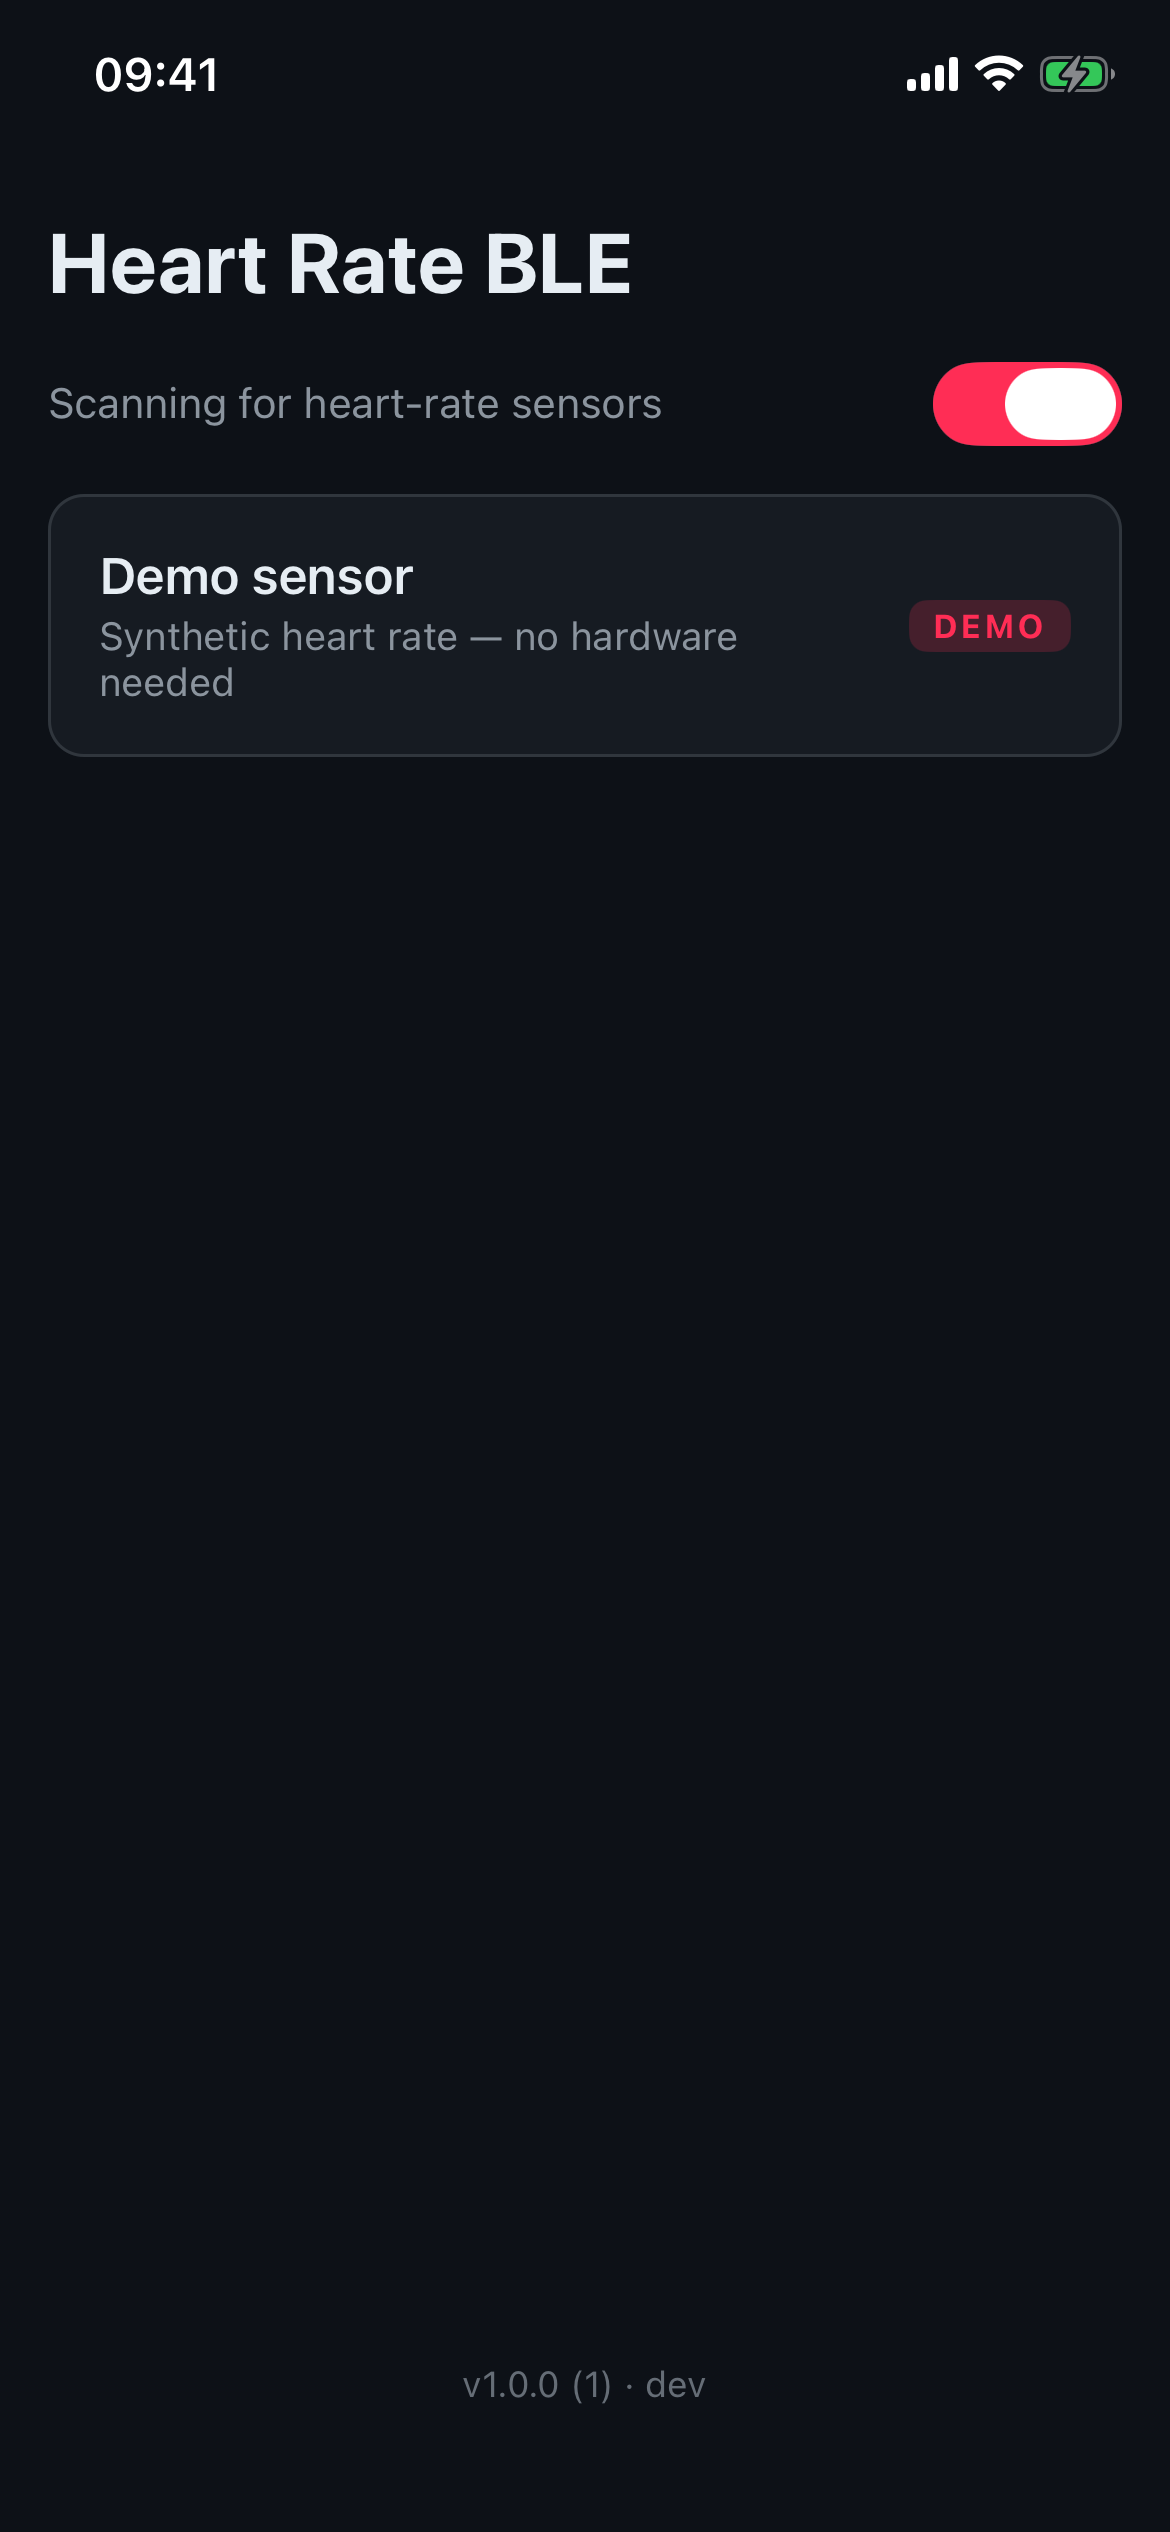
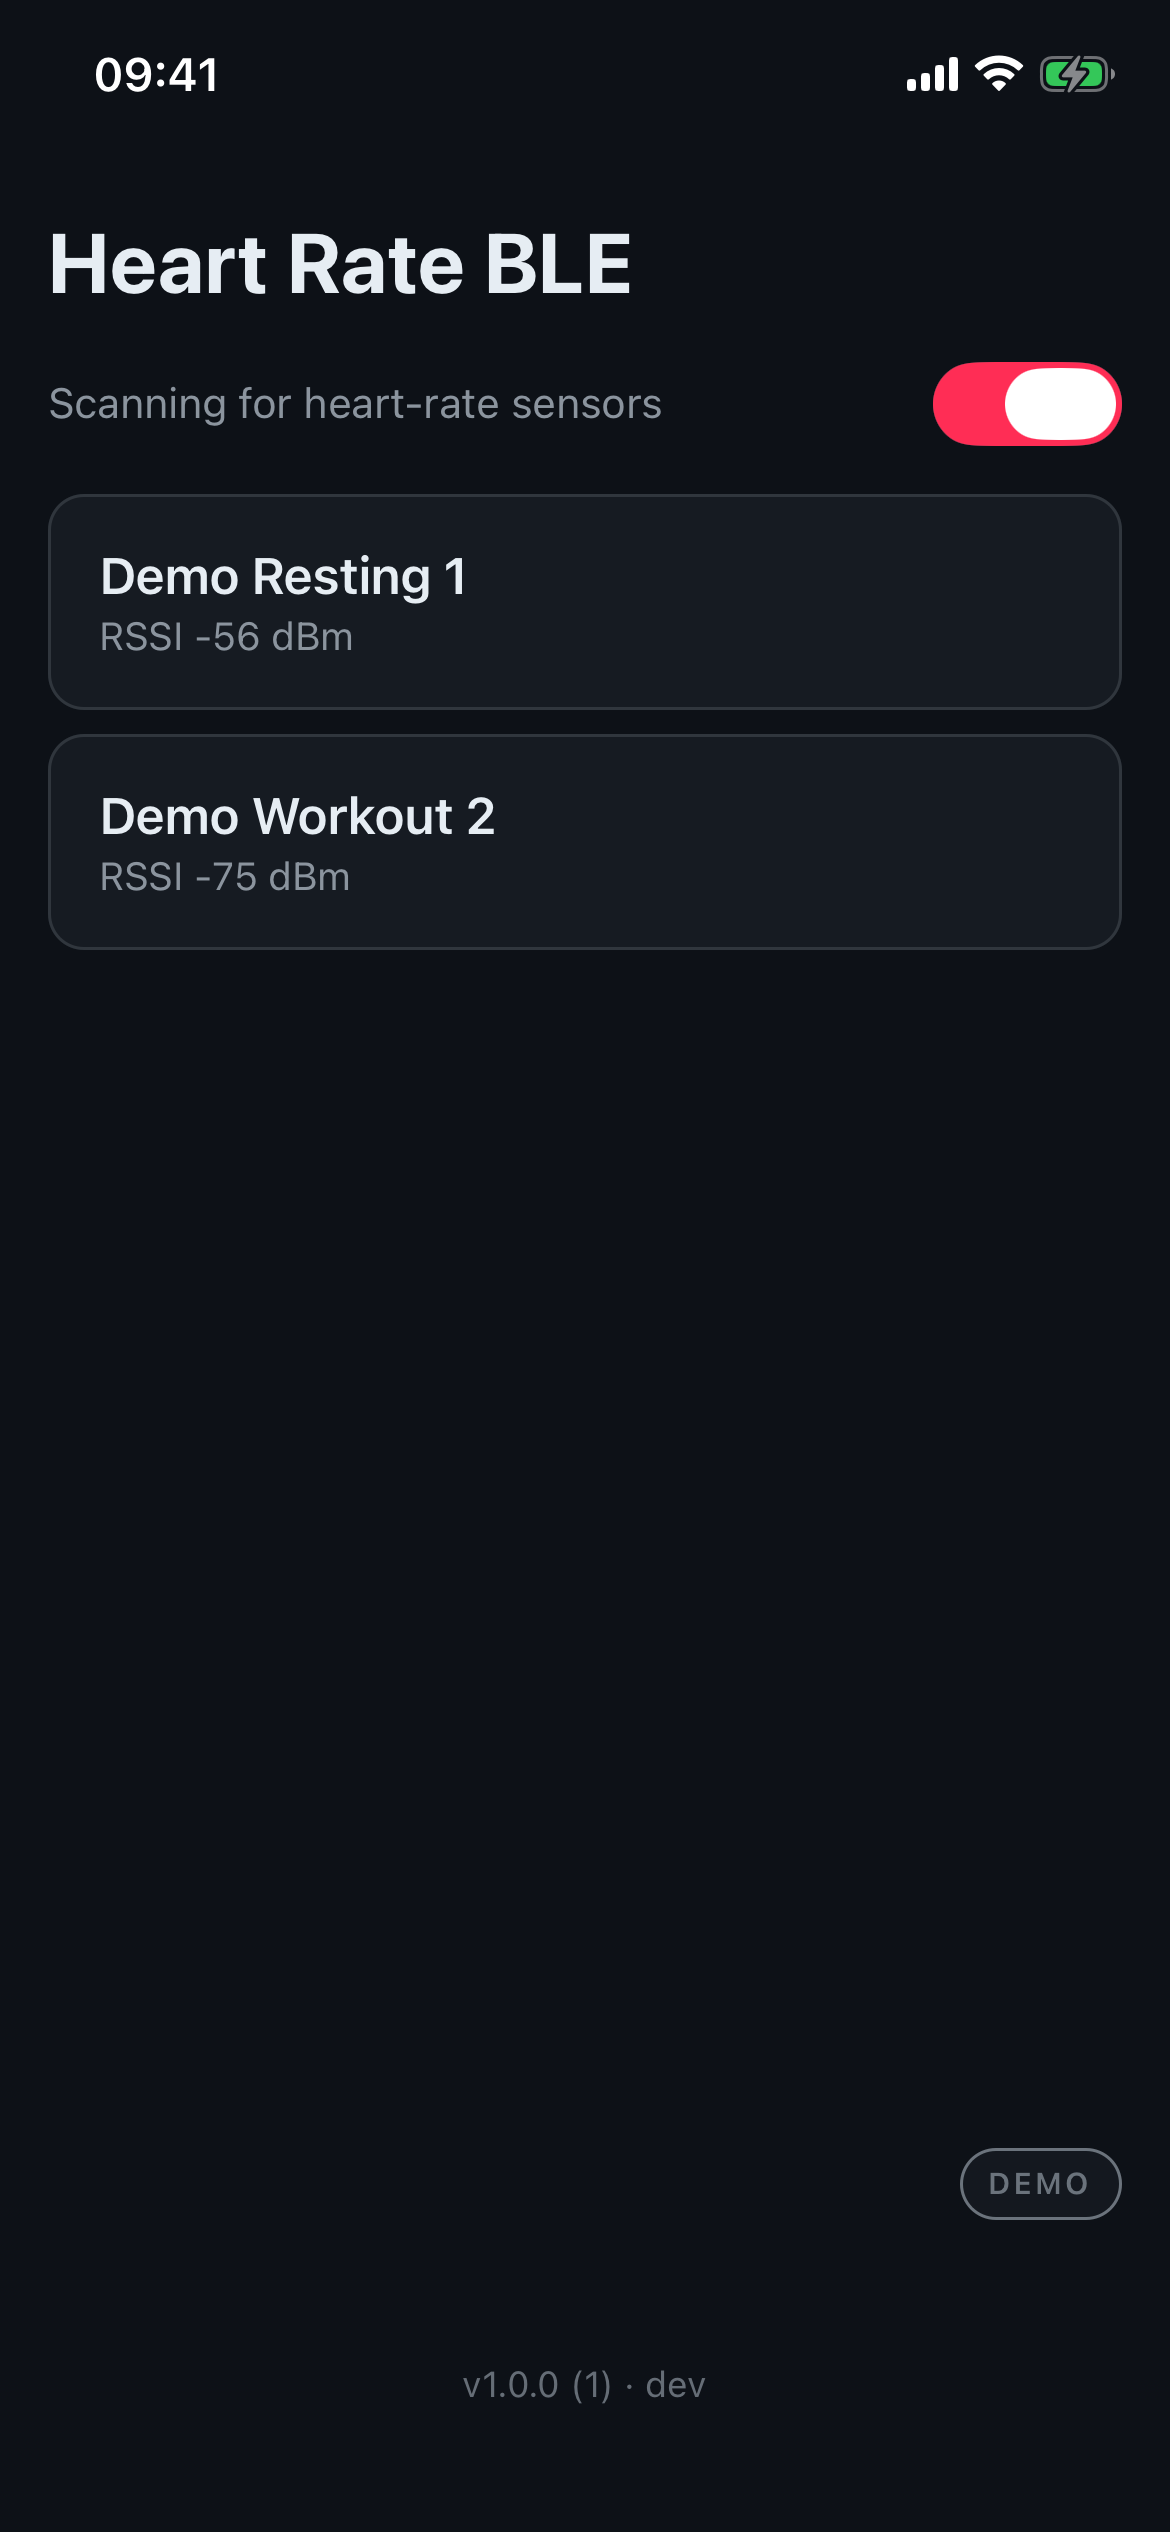
README screenshots: two demo devices and the demo panel
Regenerated on the simulator via the dev-only store/monitor globals:
scan list with a resting and a workout mock, live screen on the workout
device, and a new third shot of the demo panel controlling both.
"Grey dot" wording updated to the DEMO pill it became in #27.

Claude-Session: https://claude.ai/code/session_01VUhciEG8BmWb3DXMCqnc4d

diff --git a/README.md b/README.md
@@ -5,12 +5,15 @@ React Native (Expo) app, verified end-to-end with a Garmin watch
 broadcasting heart rate.
 
 <p>
-  <img src="docs/screenshots/scan.png" width="280" alt="Scan screen: sensor list with demo sensor" />
-  &nbsp;&nbsp;
-  <img src="docs/screenshots/live.png" width="280" alt="Live screen: beating heart and BPM" />
+  <img src="docs/screenshots/scan.png" width="260" alt="Scan screen: two demo sensors in the list" />
+  &nbsp;
+  <img src="docs/screenshots/live.png" width="260" alt="Live screen: beating heart and BPM" />
+  &nbsp;
+  <img src="docs/screenshots/demo-panel.png" width="260" alt="Demo panel: two virtual devices with power, drop and dismiss controls" />
 </p>
 
-*Simulator screenshots using the built-in demo sensor; the same UI runs
+*Simulator screenshots using two built-in demo devices (resting and
+workout profiles), controlled from the demo panel; the same UI runs
 against real hardware.*
 
 ## Try it
@@ -22,7 +25,7 @@ Distribution is via TestFlight (internal group).
 **Without hardware:** summon a demo device (**Demo Workout n** — the name
 carries the profile) — a virtual sensor that advertises and streams synthetic ~1 Hz heart rate through the
 exact same interface and staleness rules as real hardware, so the full
-flow works on any simulator. Tap the grey dot (bottom-right by default;
+flow works on any simulator. Tap the grey DEMO pill (bottom-right by default;
 drag it out of the way — it snaps to corners and mid-edges) to open the
 demo panel: summon devices with a resting, workout or dropout
 profile, power them off (⏻ — silence, no goodbye, exactly like a watch